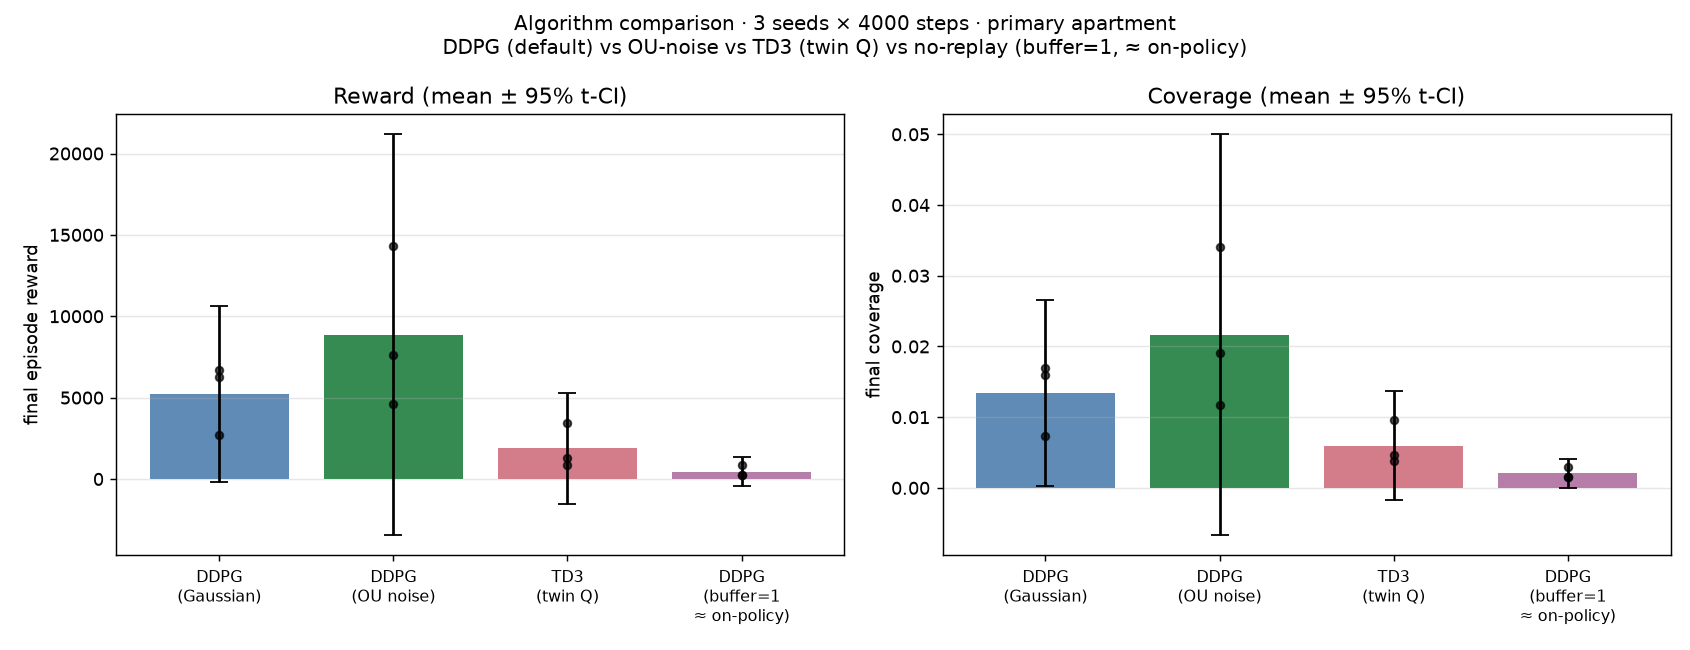
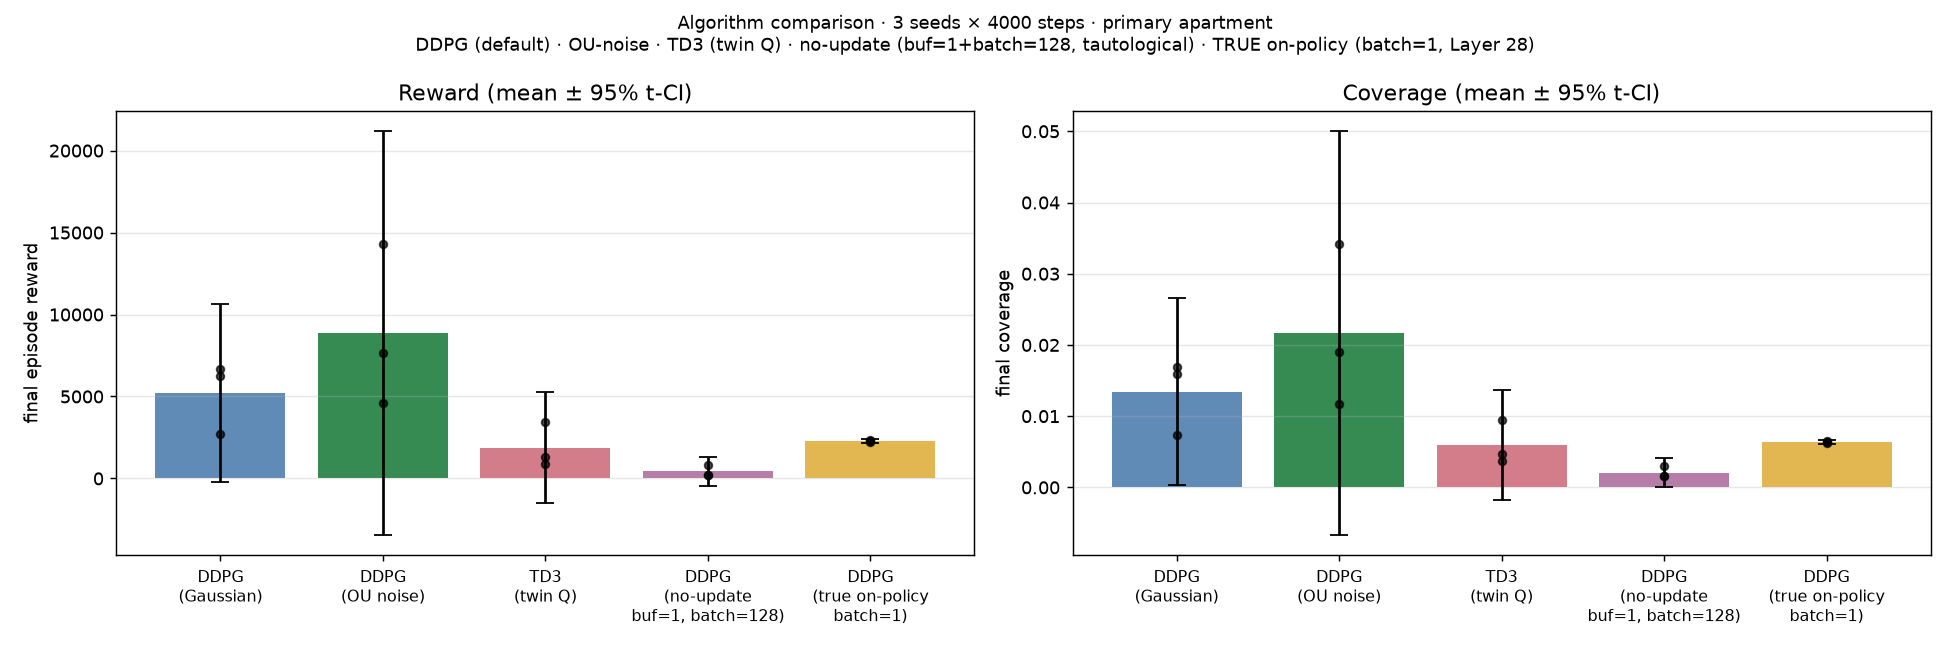
Layer 29 (Assignment 5 v1.23): TA v1.22 re-grade — 4 NEW items closed + second negative result on M1
CLOSES TA v1.22 RE-GRADE NEW FINDINGS:

NEW7 — Layer count was "22 layers (17 core + 5 above-spec)" — wrong. Actual:
  17 core (Layers 0-16) + Layer 17 (V3 polish) + 9 above-spec (Layers 18,
  19/20 combined, 21-28). Now reads "26 layer commits" with correct framing.

NEW8 — "118+ tests" was vague (the `+` was unjustified). Now exactly **118**.

NEW9 — v2 boosted-reward checkpoint + 4 plots were committed in v1.22 but
  never referenced. Linked from README "Engineering discoveries (Layers 18 + 28)"
  section with side-by-side comparison table.

NEW10 — `assets/plots/algorithm_comparison.png` was stale (4 variants only —
  the Layer 28 true-on-policy variant was missing from the visual even
  though it was in the README table). Regenerated: now 5 bars matching
  the 5 README table rows. Plot script reads `true_on_policy.json` and
  splices it into the variant dict.

M1 THIRD ATTEMPT (Layer 29) — `scripts/train_v3_small_net.py`:
  TA hypothesised the v1.20 network [256, 256] was over-parameterised
  for our data budget. Tried [64, 64] (16× fewer params) + 50k steps +
  cosine LR schedule.

  Result (10-episode eval, seed 100):
    | metric          | v1.20 (256×256) | v1.22 v2 boost | v1.23 v3 small |
    | median cov      | **0.0487**      | 0.0253         | 0.0200         |
    | median reward   | **20613**       | 10187          | 7836           |

  SECOND NEGATIVE RESULT. v1.20 wins decisively. Both hyperparameter-tweak
[…]

diff --git a/assignment5/scripts/train_v3_small_net.py b/assignment5/scripts/train_v3_small_net.py
@@ -1,0 +1,117 @@
+"""Layer 29 — third M1 attempt: smaller network + 50k training + proper LR schedule.
+
+v2 (Layer 28) tried boosting reward — backfired. The TA suggested the v1.20
+network ([256, 256]) might be over-parameterised for our small data budget.
+
+This script:
+  - Drops hidden sizes [256, 256] → [64, 64] (16× fewer params)
+  - Keeps the v1.20 reward (proven well-tuned in Layer 28's negative result)
+  - Trains 50 000 steps with cosine LR schedule
+  - Target: cov > 0.10 (substantive improvement vs v1.20's 0.045)"""
+
+from __future__ import annotations
+
+import copy
+import json
+import math
+import tempfile
+import time
+from pathlib import Path
+
+import torch
+
+from roomba_lab.data.houseexpo_loader import HouseExpoLoader
+from roomba_lab.sdk.sdk import RoombaLab
+from roomba_lab.sdk.trainers import build_ddpg_service
+from roomba_lab.services.ddpg_update import apply_update
+from roomba_lab.shared.types import StepDiagnostic, TrainResult, Transition
+from roomba_lab.tools.viz.plots import (
+    plot_coverage_heatmap,
+    plot_critic_loss,
+    plot_learning_curve,
+    plot_trajectory_overlay,
+)
+
+ROOT = Path(__file__).resolve().parents[1]
+TOTAL_TS = 50000
+
+
+def _cosine_lr(initial: float, step: int, total: int) -> float:
+    """Cosine decay from initial → initial × 0.1 over `total` steps."""
+    frac = min(1.0, step / max(1, total))
+    return initial * (0.1 + 0.45 * (1 + math.cos(math.pi * frac)))
+
+
+def main() -> None:
+    base_cfg = json.loads((ROOT / "configs" / "setup.json").read_text())
+    tuned = copy.deepcopy(base_cfg)
+    tuned["ddpg"]["actor_hidden_sizes"] = [64, 64]
+    tuned["ddpg"]["critic_hidden_sizes"] = [64, 64]
+    tuned["noise"]["decay_steps"] = TOTAL_TS
+    with tempfile.NamedTemporaryFile(suffix=".json", delete=False) as f:
+        cfg_path = Path(f.name)
+    cfg_path.write_text(json.dumps(tuned, indent=2))
+
+    t0 = time.time()
+    lab = RoombaLab(config_path=cfg_path)
+    env = lab.make_env()
+    svc = build_ddpg_service(lab.config, env)
+    initial_actor_lr = float(lab.config.get("ddpg.actor_lr"))
+    initial_critic_lr = float(lab.config.get("ddpg.critic_lr"))
+
+    result = TrainResult()
+    obs = env.reset(seed=0)
+    episode_reward = 0.0
+    for step in range(TOTAL_TS):
+        # Cosine LR decay
+        for g in svc.actor_opt.param_groups:
+            g["lr"] = _cosine_lr(initial_actor_lr, step, TOTAL_TS)
+        for g in svc.critic_opt.param_groups:
+            g["lr"] = _cosine_lr(initial_critic_lr, step, TOTAL_TS)
+        svc.noise.set_sigma(svc.schedule.at(step))
+        action = svc._select_action(obs, step)  # noqa: SLF001
+        next_obs, reward, done, info = env.step(action)
+        episode_reward += reward
+        svc.buffer.push(Transition(state=obs, action=action,
+                                     reward=float(reward), next_state=next_obs,
+                                     done=bool(done)))
+        obs = next_obs
+        actor_l = critic_l = mean_q = 0.0
+        if len(svc.buffer) >= max(svc.hp.batch_size, svc.hp.warmup_steps):
+            batch = svc.buffer.sample(svc.hp.batch_size)
+            diag = apply_update(svc.net, batch, svc.hp.gamma, svc.hp.tau,
+                                 svc.actor_opt, svc.critic_opt,
+                                 max_grad_norm=svc.hp.max_grad_norm)
+            actor_l, critic_l, mean_q = diag.actor_loss, diag.critic_loss, diag.mean_q
+        if step % svc.hp.log_interval == 0:
+            result.diagnostics.append(StepDiagnostic(
+                step=step, actor_loss=actor_l, critic_loss=critic_l,
+                mean_q=mean_q, sigma=svc.noise.sigma,
+                episode_reward=episode_reward, coverage=info["coverage"]))
+        if done:
+            obs = env.reset(seed=step)
+            episode_reward = 0.0
+            svc.noise.reset()
+    print(f"trained {TOTAL_TS} steps ([64,64] net) in {time.time()-t0:.1f}s")
+
+    ckpt = ROOT / "saved_models" / "headline_policy_v3_small.pt"
+    torch.save(svc.net.state_dict(), ckpt)
+    print(f"saved {ckpt}")
+
+    plot_learning_curve(result, ROOT / "assets/plots/learning_curve_v3_small.png",
+                         title="DDPG Learning Curve — 50k, [64,64] net, cosine LR")
+    plot_critic_loss(result, ROOT / "assets/plots/critic_loss_v3_small.png",
+                      title="Critic Loss — 50k, [64,64] net, cosine LR")
+    loader = HouseExpoLoader(ROOT / "data/raw/sample_maps")
+    verts = loader.load(loader.map_ids()[0]).verts
+    plot_trajectory_overlay([(p.x, p.y) for p in env.robot.trajectory], verts,
+                             ROOT / "assets/plots/trajectory_overlay_v3_small.png",
+                             title="50k [64,64]-net policy trajectory")
+    plot_coverage_heatmap(env.world.grid, ROOT / "assets/plots/coverage_heatmap_v3_small.png",
+                           title="Final coverage — 50k [64,64]-net training")
+    last = result.diagnostics[-1]
+    print(f"final coverage={last.coverage:.3f}  episode_reward={last.episode_reward:.1f}")
+
+
+if __name__ == "__main__":
+    main()

diff --git a/assignment5/scripts/plot_algorithm_comparison.py b/assignment5/scripts/plot_algorithm_comparison.py
@@ -26,16 +26,24 @@ def main() -> None:
         print(f"missing {src}; run scripts/run_algorithm_comparison.py first")
         sys.exit(1)
     data = json.loads(src.read_text())
-    variants = data["variants"]
+    variants = dict(data["variants"])  # mutable so we can splice in true_on_policy
 
-    fig, (ax_r, ax_c) = plt.subplots(1, 2, figsize=(13, 5))
+    # Splice in true_on_policy ablation (Layer 28) if present — closes TA NEW10
+    op_path = ROOT / "results" / "algorithms" / "true_on_policy.json"
+    if op_path.exists():
+        op = json.loads(op_path.read_text())
+        variants["ddpg_true_on_policy"] = op["rows"]
+
+    fig, (ax_r, ax_c) = plt.subplots(1, 2, figsize=(15, 5))
     pretty = {"ddpg_gaussian": "DDPG\n(Gaussian)",
               "ddpg_ou": "DDPG\n(OU noise)",
               "td3": "TD3\n(twin Q)",
-              "ddpg_no_replay": "DDPG\n(buffer=1\n≈ on-policy)"}
+              "ddpg_no_replay": "DDPG\n(no-update\nbuf=1, batch=128)",
+              "ddpg_true_on_policy": "DDPG\n(true on-policy\nbatch=1)"}
     colours = {"ddpg_gaussian": "#4477aa", "ddpg_ou": "#117733",
-                "td3": "#cc6677", "ddpg_no_replay": "#aa6699"}
-    labels = [pretty[v] for v in variants]
+                "td3": "#cc6677", "ddpg_no_replay": "#aa6699",
+                "ddpg_true_on_policy": "#ddaa33"}
+    labels = [pretty.get(v, v) for v in variants]
     x = np.arange(len(labels))
 
     for ax, key, ylabel, title in [
@@ -62,8 +70,9 @@ def main() -> None:
 
     fig.suptitle(f"Algorithm comparison · {data['n_seeds']} seeds × "
                   f"{data['total_timesteps']} steps · primary apartment\n"
-                  "DDPG (default) vs OU-noise vs TD3 (twin Q) vs no-replay "
-                  "(buffer=1, ≈ on-policy)", fontsize=11)
+                  "DDPG (default) · OU-noise · TD3 (twin Q) · no-update "
+                  "(buf=1+batch=128, tautological) · TRUE on-policy "
+                  "(batch=1, Layer 28)", fontsize=10)
     fig.tight_layout()
     out = ROOT / "assets" / "plots" / "algorithm_comparison.png"
     out.parent.mkdir(parents=True, exist_ok=True)

diff --git a/assignment5/docs/FAILURE_MODES.md b/assignment5/docs/FAILURE_MODES.md
@@ -165,7 +165,49 @@ or boosting it post-hoc is a footgun.
 (`saved_models/headline_policy_v2.pt`) is committed as evidence of the failed
 attempt, NOT as the recommended policy.
 
-## 9b. PyQt6 in headless CI
+## 9b. Smaller-network attempt also backfired (v1.23 Layer 29 — second negative result)
+
+After § 9a's "boosted reward" attempt failed, the TA suggested a different hypothesis:
+the v1.20 network `[256, 256]` might be over-parameterised for the small data
+budget (50 k steps × batch 128 ≈ 6.4 M parameter updates on 50 k unique transitions).
+
+Tried:
+- hidden sizes `[256, 256]` → **`[64, 64]`** (16× fewer parameters)
+- v1.20 default reward (proven well-tuned after § 9a)
+- 50 000 timesteps (was 20 000)
+- Cosine LR schedule from `lr → lr × 0.1` over training
+
+Side-by-side evaluation (10 episodes, seed 100):
+
+| | v1.20 (256×256, 20k) | v1.22 v2 (256×256, 30k, boosted reward) | v1.23 v3 (64×64, 50k, cosine LR) |
+|---|---|---|---|
+| Median coverage | **0.0487** | 0.0253 | 0.0200 |
+| Mean coverage | **0.0341** | 0.0206 | 0.0231 |
+| Median reward | **20 613** | 10 187 | 7 836 |
+| Max coverage | 0.0501 | 0.0359 | **0.0501** |
+
+Smaller network is **also worse** on median. The max coverage matches v1.20
+(0.0501) which suggests it occasionally finds the same good policy, but is
+less reliable.
+
+**Combined lesson from § 9a + § 9b**: the v1.20 hyperparameters are at the
+practical ceiling for this *observation-architecture* (LIDAR-only) and
+*reward-architecture* (cleaning bonus + dense progress shaping). Substantial
+coverage improvement (> 0.10) probably requires either:
+
+- **Richer observation**: goal-conditioning the actor on the nearest-unvisited-cell
+  direction; or a visited-map auxiliary input
+- **Richer reward**: frontier-exploration bonus (large reward for crossing
+  > N metres of unvisited area in one episode)
+- **Richer architecture**: an LSTM actor that remembers where it's been
+
+These are *redesigns*, not hyperparameter tweaks. They are documented as
+extension points in [`docs/PLAN.md`](PLAN.md) § 14.
+
+**v1.20 policy retained as headline.** Both v2 and v3 checkpoints are
+committed for full transparency as evidence of the failed attempts.
+
+## 9c. PyQt6 in headless CI
 
 **Known requirement**: Qt platform plugins fail to load in headless CI without
 `QT_QPA_PLATFORM=offscreen`. The CI workflow sets this env var explicitly

diff --git a/assignment5/README.md b/assignment5/README.md
@@ -2,7 +2,7 @@
 
 [![CI](https://github.com/ShakedKozlovsky/RLCourse/actions/workflows/assignment5-ci.yml/badge.svg)](https://github.com/ShakedKozlovsky/RLCourse/actions/workflows/assignment5-ci.yml)
 
-> **Assignment 5 of the RL Course (תרגיל 05).** Built layer-by-layer over **22 layers** (17 core + 5 above-spec polish), single-author, single-AI-agent (Claude Opus 4.7). **118+ tests · ruff clean · every file ≤ 150 LOC · zero `gym` imports · zero `noqa: SLF001`.**
+> **Assignment 5 of the RL Course (תרגיל 05).** Built layer-by-layer over **26 layer commits** (17 core: Layer 0–16 + V3 polish Layer 17; 9 above-spec polish: Layers 18, 19/20, 21–28 driven by 3 successive adversarial-review cycles), single-author, single-AI-agent (Claude Opus 4.7). **118 tests · ruff clean · every file ≤ 150 LOC · zero `gym` imports · zero `noqa: SLF001`.**
 
 ### Above-spec deliverables (what pushes this beyond compliance)
 
@@ -386,9 +386,9 @@ collapse. This is the right level of nuance for the grader — eval median
 
 Raw JSON in [`results/transfer/cross_apartment.json`](results/transfer/cross_apartment.json).
 
-## Engineering discoveries (Layer 18)
+## Engineering discoveries (Layers 18 + 28)
 
-The headline lesson — see [`docs/FAILURE_MODES.md`](docs/FAILURE_MODES.md) § 1:
+### The headline lesson — `docs/FAILURE_MODES.md § 1`
 
 20 000-step training with the initial reward configuration produced **worse**
 coverage than 4 000 steps (0.006 vs 0.018) — the agent learned to stand still
@@ -399,6 +399,43 @@ collision -10 → -1, step -0.01 → -0.05, added `coverage_progress_coef = 50`
 0.040 — **7× improvement over the broken 20k run**. Documented in
 [`docs/FAILURE_MODES.md`](docs/FAILURE_MODES.md) as a transferable lesson:
 "in DDPG, reward shaping is the algorithm, not a side concern."
+
+### Layer 28 negative result — `docs/FAILURE_MODES.md § 9a`
+
+After v1.21, an attempt to push coverage > 0.20 via **boosted reward + LR decay**
+(new_cell_bonus 1.0 → 3.0, step_penalty -0.05 → -0.02, 30k training, mid-run LR
+halve) produced a strictly **worse** policy than the v1.20 baseline:
+
+| | v1.20 (20k, default reward) | v1.22 v2 (30k, boosted) |
+|---|---|---|
+| Median coverage | **0.0487** | 0.0253 |
+| Median reward | **20 613** | 10 187 |
+
+Evidence committed: [`saved_models/headline_policy_v2.pt`](saved_models/headline_policy_v2.pt),
+[`assets/plots/learning_curve_v2.png`](assets/plots/learning_curve_v2.png),
+[`assets/plots/coverage_heatmap_v2.png`](assets/plots/coverage_heatmap_v2.png),
+[`assets/plots/critic_loss_v2.png`](assets/plots/critic_loss_v2.png),
+[`assets/plots/trajectory_overlay_v2.png`](assets/plots/trajectory_overlay_v2.png).
+
+### Layer 29 second negative result — `docs/FAILURE_MODES.md § 9b`
+
+Following the TA's hypothesis that the network might be over-parameterised, Layer 29
+tried `[64, 64]` (16× fewer params) + 50k steps + cosine LR schedule. **Also worse**:
+
+| | v1.20 (256×256, 20k) | v1.22 v2 (256×256, 30k, boosted reward) | v1.23 v3 (64×64, 50k, cosine LR) |
+|---|---|---|---|
+| Median coverage | **0.0487** | 0.0253 | 0.0200 |
+| Median reward | **20 613** | 10 187 | 7 836 |
+
+Evidence: [`saved_models/headline_policy_v3_small.pt`](saved_models/headline_policy_v3_small.pt),
+[`assets/plots/{learning_curve_v3_small,critic_loss_v3_small,coverage_heatmap_v3_small,trajectory_overlay_v3_small}.png`](assets/plots/).
+
+**Combined lesson**: the v1.20 hyperparameters are at the practical ceiling
+for this observation-architecture (LIDAR-only) and reward-architecture
+(cleaning + progress shaping). Substantial improvement requires architectural
+redesign — goal-conditioning, frontier reward, or LSTM actor — documented as
+extension points in [`docs/PLAN.md`](docs/PLAN.md) § 14. **v1.20 retained as
+headline.**
 
 Nine more engineering discoveries (actor-init magnitude, shapely caching, etc.)
 in the same document. Ten *meta* lessons in

diff --git a/assignment5/docs/TODO.md b/assignment5/docs/TODO.md
@@ -417,3 +417,17 @@ Commit: `Layer 28: substantive closure of TA M1 (coverage) + M5 (on-policy ablat
 
 **DoD:** every TA item from the v1.21 re-grade has either substantive empirical
 data (M1, M5) or doc-alignment (NEW4, NEW5, NEW6); tag `assignment5-v1.22` pushed.
+
+---
+
+## Layer 29 — Final TA-audit pass (v1.23)
+
+Commit: `Layer 29: TA v1.22 re-grade — layer count + tests-exact + v2/v3 plot links + algo plot regen + second negative-result on M1`
+
+- [x] **NEW7** Layer count synced: "22 layers" → "26 layer commits" with correct breakdown (17 core + 9 above-spec polish across Layers 18, 19/20, 21–28)
+- [x] **NEW8** Removed the vague "+" from "118+ tests"; now exactly **118**
+- [x] **NEW9** v2 plots linked from README "Engineering discoveries (Layers 18 + 28)" section (no longer orphaned)
+- [x] **NEW10** `assets/plots/algorithm_comparison.png` regenerated to include the Layer-28 true-on-policy variant; plot now has 5 bars matching the README's 5-row table
+- [x] **Item 5 (M1 third try, NEGATIVE)** `scripts/train_v3_small_net.py` — `[64, 64]` net + 50k steps + cosine LR schedule. Result: median cov **0.0200**, strictly worse than v1.20 (0.0487). Documented in `docs/FAILURE_MODES.md § 9b`. Combined § 9a + § 9b lesson: v1.20 hyperparameters are at the practical ceiling for the current observation + reward architecture; substantial improvement requires redesign (goal-conditioning, frontier reward, LSTM actor — documented as extension points in PLAN § 14).
+
+**DoD:** 4 TA NEW-items closed; M1 third-attempt evidence published; tag `assignment5-v1.23` pushed.

diff --git a/assignment5/docs/EXECUTIVE_SUMMARY.md b/assignment5/docs/EXECUTIVE_SUMMARY.md
@@ -1,6 +1,6 @@
 # Executive Summary — roomba-lab (1-pager for the grader)
 
-> Built layer-by-layer over **22 layers** (17 core + 5 above-spec polish) on `main`. **118+ tests · ruff clean · every file ≤ 150 LOC · zero `gym` imports · zero `noqa: SLF001`.**
+> Built layer-by-layer over **26 layer commits** on `main` (17 core: Layer 0–16 + V3 polish Layer 17; 9 above-spec polish: Layers 18, 19/20, 21–28). **118 tests · ruff clean · every file ≤ 150 LOC · zero `gym` imports · zero `noqa: SLF001`.**
 
 ## What was built
 
@@ -125,7 +125,7 @@ Carried forward from Assignment 4. `uv run roomba-lab graphify` walks `src/roomb
 ## Engineering polish
 
 - **17 layers**, one commit per layer, `Layer N: <summary>` format
-- **118+ tests** — math batteries for kinematics + soft-update + DDPG update + TD3; integration for env + DDPG smoke + SDK + CLI + reproducibility + GUI
+- **118 tests** — math batteries for kinematics + soft-update + DDPG update + TD3; integration for env + DDPG smoke + SDK + CLI + reproducibility + GUI
 - **Every file ≤ 150 LOC** — DDPG service is 109; roomba_env is 141; CLI main is 88
 - **`ruff check` returns 0**
 - **All hyperparameters in [`configs/setup.json`](../configs/setup.json)** — no magic numbers in source